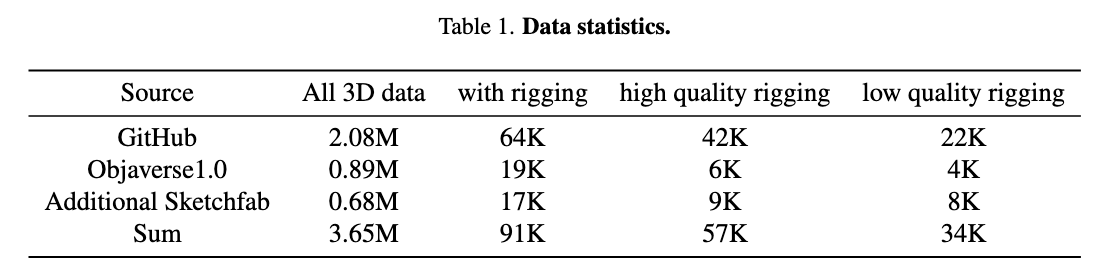
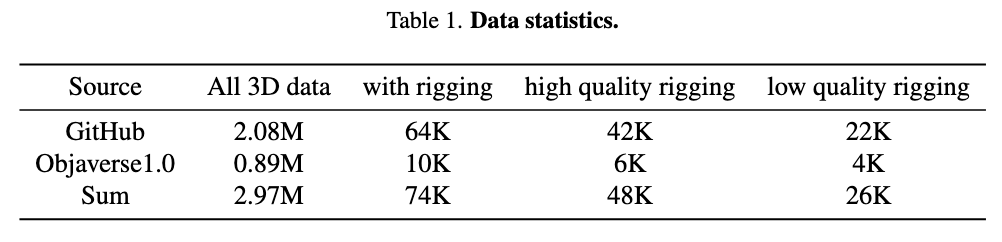
update readme

Changed region(s): [[0.0, 0.2314, 0.99, 0.9545], [0.3713, 0.0289, 0.6188, 0.1446]]

diff --git a/data_visualization/pyrender_wrapper.py b/data_visualization/pyrender_wrapper.py
@@ -1,0 +1,136 @@
+# Modified from https://github.com/lab4d-org/lab4d
+
+import os
+import numpy as np
+import cv2
+import pdb
+import pyrender
+import trimesh
+from pyrender import (
+    IntrinsicsCamera,
+    Mesh,
+    Node,
+    Scene,
+    OffscreenRenderer,
+    MetallicRoughnessMaterial,
+    RenderFlags
+)
+
+os.environ["PYOPENGL_PLATFORM"] = "egl"
+
+def look_at(eye, center, up):
+    """Create a look-at (view) matrix."""
+    f = np.array(center, dtype=np.float32) - np.array(eye, dtype=np.float32)
+    f /= np.linalg.norm(f)
+
+    u = np.array(up, dtype=np.float32)
+    u /= np.linalg.norm(u)
+
+    s = np.cross(f, u)
+    u = np.cross(s, f)
+
+    m = np.identity(4, dtype=np.float32)
+    m[0, :3] = s
+    m[1, :3] = u
+    m[2, :3] = -f
+    m[:3, 3] = -np.matmul(m[:3, :3], np.array(eye, dtype=np.float32))
+
+    return m
+
+class PyRenderWrapper:
+    def __init__(self, image_size=(1024, 1024)) -> None:
+        # renderer
+        self.image_size = image_size
+        render_size = max(image_size)
+        self.r = OffscreenRenderer(render_size, render_size)
+        self.intrinsics = IntrinsicsCamera(
+            render_size, render_size, render_size / 2, render_size / 2
+        )
+        # light
+        self.light_pose = np.eye(4)
+        self.set_light_topdown()
+        self.direc_l = pyrender.DirectionalLight(color=np.ones(3), intensity=5.0)
+        self.material = MetallicRoughnessMaterial(
+            roughnessFactor=0.75, metallicFactor=0.75, alphaMode="BLEND"
+        )
+        self.init_camera()
+
+    def init_camera(self):
+        self.flip_pose = np.eye(4)
+        self.set_camera(np.eye(4))
+
+    def set_camera(self, scene_to_cam):
+        # object to camera transforms
+        self.scene_to_cam = self.flip_pose @ scene_to_cam
+        
+    def set_light_topdown(self, gl=False):
+        # top down light, slightly closer to the camera
+        if gl:
+            rot = cv2.Rodrigues(np.asarray([-np.pi / 2, 0, 0]))[0]
+        else:
+            rot = cv2.Rodrigues(np.asarray([np.pi / 2, 0, 0]))[0]
+        self.light_pose[:3, :3] = rot
+
+    def align_light_to_camera(self):
+        self.light_pose = np.linalg.inv(self.scene_to_cam)
+
+    def set_intrinsics(self, intrinsics):
+        """
+        Args:
+            intrinsics: (4,) fx,fy,px,py
+        """
+        self.intrinsics = IntrinsicsCamera(
+            intrinsics[0], intrinsics[1], intrinsics[2], intrinsics[3]
+        )
+
+    def get_cam_to_scene(self):
+        cam_to_scene = np.eye(4)
+        cam_to_scene[:3, :3] = self.scene_to_cam[:3, :3].T
+        cam_to_scene[:3, 3] = -self.scene_to_cam[:3, :3].T @ self.scene_to_cam[:3, 3]
+        return cam_to_scene
+    
+    def set_camera_view(self, angle, bbox_center, distance=2.0):
+        # Calculate camera position based on angle and distance from bounding box center
+        camera_position = bbox_center + distance * np.array([np.sin(angle), 0, np.cos(angle)], dtype=np.float32)
+        look_at_matrix = look_at(camera_position, bbox_center, [0, 1, 0])
+        self.scene_to_cam = look_at_matrix @ self.flip_pose
+    
+    def render(self, input_dict):
+        # Create separate scenes for transparent objects (mesh) and solid objects (joints and bones)
+        scene_transparent = Scene(ambient_light=np.array([1.0, 1.0, 1.0, 1.0]) * 0.1)
+        scene_solid = Scene(ambient_light=np.array([1.0, 1.0, 1.0, 1.0]) * 0.1)
+
+        mesh_pyrender = Mesh.from_trimesh(input_dict["shape"], smooth=False)
+        mesh_pyrender.primitives[0].material = self.material
+        scene_transparent.add(mesh_pyrender, pose=np.eye(4), name="shape")
+
+        if "joint_meshes" in input_dict:
+            joints_pyrender = Mesh.from_trimesh(input_dict["joint_meshes"], smooth=False)
+            joints_pyrender.primitives[0].material = self.material
+            scene_solid.add(joints_pyrender, pose=np.eye(4), name="joints")
+
+        if "bone_meshes" in input_dict:
+            bones_pyrender = Mesh.from_trimesh(input_dict["bone_meshes"], smooth=False)
+            bones_pyrender.primitives[0].material = self.material
+            scene_solid.add(bones_pyrender, pose=np.eye(4), name="bones")
+
+        # Camera for both scenes
+        scene_transparent.add(self.intrinsics, pose=self.get_cam_to_scene())
+        scene_solid.add(self.intrinsics, pose=self.get_cam_to_scene())
+
+        # Light for both scenes
+        scene_transparent.add(self.direc_l, pose=self.light_pose)
+        scene_solid.add(self.direc_l, pose=self.light_pose)
+
+        # Render transparent scene first
+        color_transparent, depth_transparent = self.r.render(scene_transparent)
+
+        # Render solid scene on top
+        color_solid, depth_solid = self.r.render(scene_solid)
+
+        # Combine the two scenes
+        color_combined = np.where(depth_solid[..., np.newaxis] == 0, color_transparent, color_solid)
+
+        return color_combined, depth_solid
+    def delete(self):
+        self.r.delete()

diff --git a/data_visualization/data_loader.py b/data_visualization/data_loader.py
@@ -1,0 +1,103 @@
+import json
+import glob
+import numpy as np
+import trimesh
+
+class DataLoader:
+    def __init__(self):
+        self.joint_name_to_idx = {}
+
+    def load_rig_data(self, rig_path):
+        joints = []
+        joints_names = []
+        bones = []
+
+        with open(rig_path, 'r') as f:
+            for line in f:
+                parts = line.strip().split()
+                if parts[0] == 'joints':
+                    joint_name = parts[1]
+                    joint_pos = [float(parts[2]), float(parts[3]), float(parts[4])]
+                    self.joint_name_to_idx[joint_name] = len(joints)
+                    joints.append(joint_pos)
+                    joints_names.append(joint_name)
+                elif parts[0] == 'root':
+                    self.root_name = parts[1]
+                elif parts[0] == 'hier':
+                    parent_joint = self.joint_name_to_idx[parts[1]]
+                    child_joint = self.joint_name_to_idx[parts[2]]
+                    bones.append([parent_joint, child_joint])
+
+        self.joints = np.array(joints)
+        self.bones = np.array(bones)
+        self.joints_names = joints_names
+        self.root_idx = None
+        if self.root_name is not None:
+            self.root_idx = self.joint_name_to_idx[self.root_name]
+
+    def load_files(self, mesh_path):
+        mesh = trimesh.load(mesh_path, process=False)
+        mesh.visual.vertex_colors[:, 3] = 100  # set transparency
+
+        # Compute the centroid normal of the mesh
+        normal = mesh.center_mass - mesh.bounding_box.centroid
+        normal = normal / (np.linalg.norm(normal)+1e-5)
+
+        # Choose axis order based on normal direction
+        if abs(normal[1]) > abs(normal[2]):  # if Y component is dominant
+            self.axis_order = [0, 1, 2]  # swapping Y and Z
+        else:
+            self.axis_order =[0, 2, 1]  # keep default order
+
+        self.mesh = mesh
+        self.mesh.vertices = self.mesh.vertices[:, self.axis_order]
+        self.joints = self.joints[:, self.axis_order]
+        self.normalize_coordinates()
+
+    def normalize_coordinates(self):
+        bbox = self.mesh.bounding_box
+        bbox_center = bbox.centroid
+        bbox_size = np.max(bbox.extents)
+
+        # Compute scale and offset
+        scale = 1.0 / (bbox_size+1e-5)
+        offset = -bbox_center
+
+        # Apply normalization to mesh
+        self.mesh.vertices = (self.mesh.vertices + offset) * scale
+
+        # Apply normalization to joints
+        self.joints = (self.joints + offset) * scale
+        
+        normalized_bbox_size_mean = np.mean(self.mesh.bounding_box.extents)
+
+        # Calculate appropriate radii based on the mean size
+        self.joint_radius = 0.01 #* normalized_bbox_size_mean
+        self.bone_radius = 0.005 #* normalized_bbox_size_mean
+
+    def query_mesh_rig(self):
+        input_dict = {"shape": self.mesh}
+
+        # Create joints as spheres
+        joint_meshes = []
+        for i, joint in enumerate(self.joints):
+            sphere = trimesh.creation.icosphere(
+                radius=self.joint_radius, subdivisions=2
+            )
+            sphere.apply_translation(joint)
+
+            sphere.visual.vertex_colors = [0, 0, 255, 255]
+            joint_meshes.append(sphere)
+        input_dict["joint_meshes"] = trimesh.util.concatenate(joint_meshes)
+
+        # Create bones as cylinders
+        bone_meshes = []
+        for bone in self.bones:
+            start, end = self.joints[bone[0]], self.joints[bone[1]]
+            cylinder = trimesh.creation.cylinder(radius=self.bone_radius, segment=np.array([[0, 0, 0], end - start]))
+            cylinder.apply_translation(start)
+            cylinder.visual.vertex_colors = [255, 0, 0, 255]  #[0, 0, 255, 255]  # blue
+            bone_meshes.append(cylinder)
+        input_dict["bone_meshes"] = trimesh.util.concatenate(bone_meshes)
+
+        return input_dict

diff --git a/README.md b/README.md
@@ -46,7 +46,7 @@
 
 ## Dataset: Articulation-XL2.0
 
-We introduces <b>Articulation-XL2.0</b>, a large-scale dataset featuring over <b>57K</b> 3D models with high-quality articulation annotations, filtered from Objaverse-XL. Compared to version 1.0, Articulation-XL2.0 incorporates additional data from Sketchfab and includes 3D models with multiple components. For further details, please refer to the statistics below.
+We introduces <b>Articulation-XL2.0</b>, a large-scale dataset featuring over <b>48K</b> 3D models with high-quality articulation annotations, filtered from Objaverse-XL. Compared to version 1.0, Articulation-XL2.0 includes 3D models with multiple components. For further details, please refer to the statistics below.
 <p align="center">
   <img width="60%" src="assets/data_statistics.png"/>
 </p>
@@ -56,6 +56,9 @@ Note: The data with rigging has been deduplicated (over 150K). The quality of mo
   <img width="80%" src="assets/articulation-xl2.0.png"/>
 </p>
 
+### Data visualization
+We provide a method for visualizing 3D models with skeleton using [Pyrender](https://github.com/mmatl/pyrender), modified from [Lab4D](https://github.com/lab4d-org/lab4d/tree/ppr/). For more details, please refer [here](https://github.com/Seed3D/MagicArticulate/data_visualization).
+
 ## Autoregressive skeleton generation
 We formulate skeleton generation as a sequence modeling problem, leveraging an autoregressive transformer to naturally handle varying numbers of bones or joints within skeletons.
 <p align="center">
@@ -64,7 +67,7 @@ We formulate skeleton generation as a sequence modeling problem, leveraging an a
 
 ## Acknowledgment
 
-We appreciate the insightful discussions with [Zhan Xu](https://github.com/zhan-xu) regrading [RigNet](https://github.com/zhan-xu/RigNet) and with [Biao Zhang](http://1zb.github.io/) regrading [Functional Diffusion](https://1zb.github.io/functional-diffusion/). The code is built based on [MeshAnything](https://github.com/buaacyw/MeshAnything), [Functional Diffusion](https://1zb.github.io/functional-diffusion/), [Michelangelo](https://github.com/NeuralCarver/Michelangelo/) and [Lab4D](https://github.com/lab4d-org/lab4d).
+We appreciate the insightful discussions with [Zhan Xu](https://github.com/zhan-xu) regrading [RigNet](https://github.com/zhan-xu/RigNet) and with [Biao Zhang](http://1zb.github.io/) regrading [Functional Diffusion](https://1zb.github.io/functional-diffusion/). The code is built based on [MeshAnything](https://github.com/buaacyw/MeshAnything), [Functional Diffusion](https://1zb.github.io/functional-diffusion/), [RigNet](https://github.com/zhan-xu/RigNet), [Michelangelo](https://github.com/NeuralCarver/Michelangelo/) and [Lab4D](https://github.com/lab4d-org/lab4d).
 
 
 ## Citation

diff --git a/data_visualization/README.md b/data_visualization/README.md
@@ -1,0 +1,15 @@
+## Overview
+We provide a method for visualizing 3D models with skeleton using [Pyrender](https://github.com/mmatl/pyrender), modified from [Lab4D](https://github.com/lab4d-org/lab4d/tree/ppr/). This visualization also serves as input to the VLM for skeleton quality rating.
+
+## Installzation
+```
+pip install trimesh opencv-python pyrender
+```
+## Visualization
+We provide an example to demonstrate the process. For this example, we prepare an OBJ file along with a TXT file containing rigging information. Then, run:
+```
+python render_data.py
+```
+You will obtain the following outputs:
+
+
